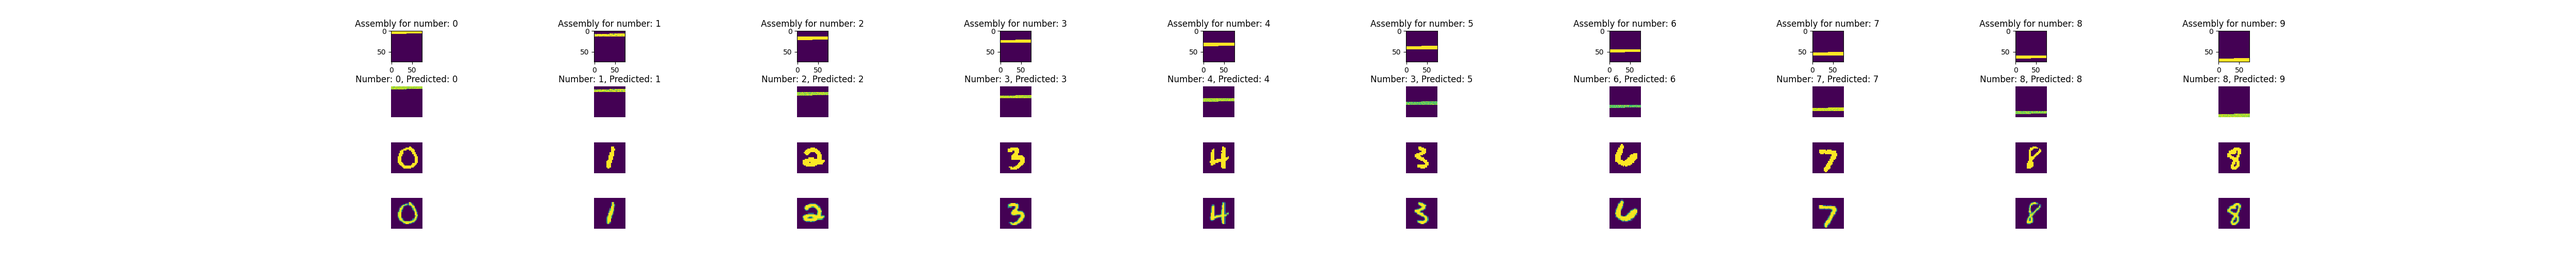
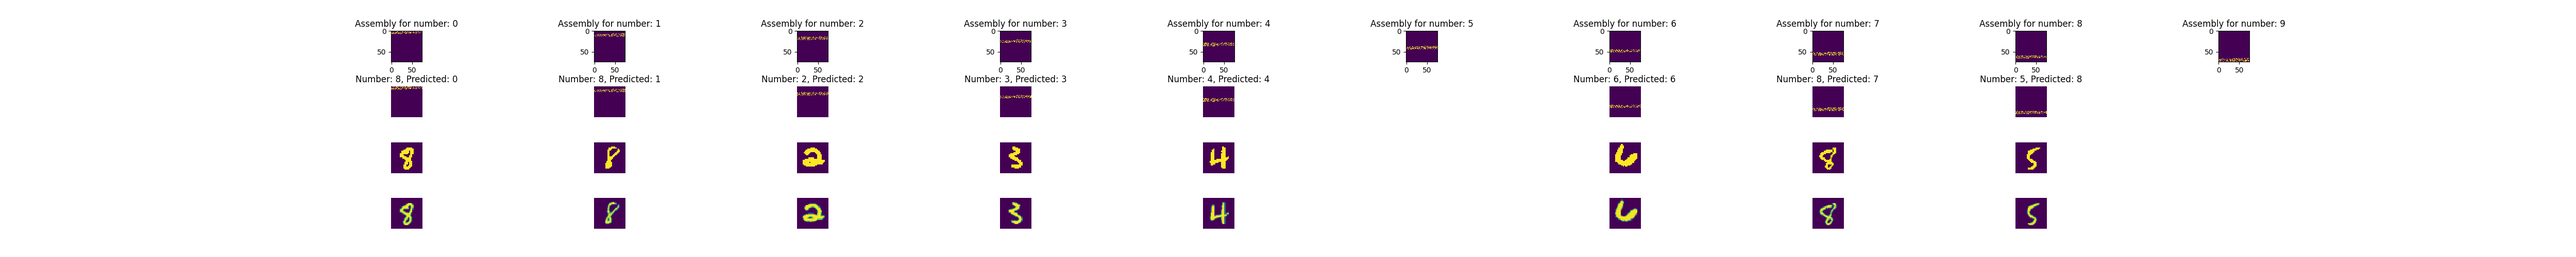
chor: small changes

diff --git a/online_learning.py b/online_learning.py
@@ -5,32 +5,32 @@ from matplotlib.colors import ListedColormap, BoundaryNorm
 
 
 def get_brain():
-    return Brain(p = 0.1, cap_size = 100, beta = 0.05, no_classes = 3, n = 2000, in_n = 1000)
+    return Brain(p = 0.1, cap_size = 100, beta = 0.1, no_classes = 2, n = 700, in_n = 1000)
 
 def binary_training():
     brain = get_brain()
-    props = [0.865, 0.9, 0.935]
-    choices = brain.binary_training(props, time_steps=500, delta=0.1)
+    props = [0.4, 0.6]
+    choices = brain.binary_training(props, time_steps=100)
 
-    fig, ax = plt.subplots(2, 1, figsize=(50, 6))
+    fig, ax = plt.subplots(1, 1, figsize=(20, 6))
     
     classes = [chr(ord("A") + i) for i in range(len(props))]
-    ax[0].set_yticks(range(len(classes)), labels=classes)
+    ax.set_yticks(range(len(classes)), labels=classes)
     fig.legend([str(props[i]) for i in range(len(props))])
-    ax[0].imshow(choices, cmap="binary", aspect="3")
-    ax[0].set_title(f"Game history \n props: {props}")
-    ax[0].set_xlabel("Time Steps")
-    ax[0].set_ylabel("Choices")
+    ax.imshow(choices, cmap="binary")
+    ax.set_title(f"Game history \n props: {props}")
+    ax.set_xlabel("Time Steps")
+    ax.set_ylabel("Choices")
 
-    # no delta
-    brain = get_brain()
-    choices_no_delta = brain.binary_training(props, time_steps=500)
-    fig.legend([str(props[i]) for i in range(len(props))])
-    ax[1].set_yticks(range(len(classes)), labels=classes)
-    ax[1].imshow(choices_no_delta, cmap="binary", aspect="3")
-    ax[1].set_title(f"Game history without delta \n props: {props}")
-    ax[1].set_xlabel("Time Steps")
-    ax[1].set_ylabel("Choices")
+    # # no delta
+    # brain = get_brain()
+    # choices_no_delta = brain.binary_training(props, time_steps=100)
+    # fig.legend([str(props[i]) for i in range(len(props))])
+    # ax[1].set_yticks(range(len(classes)), labels=classes)
+    # ax[1].imshow(choices_no_delta, cmap="binary")
+    # ax[1].set_title(f"Game history without delta \n props: {props}")
+    # ax[1].set_xlabel("Time Steps")
+    # ax[1].set_ylabel("Choices")
     
     fig.savefig("plots/online_training.png")
 
@@ -67,7 +67,6 @@ def binary_training_test():
         
     print("accuracy", correct / n)
 
-
 def two_brains_binary_game(rounds=700):
     brain1 = Brain(p = 0.1, cap_size = 100, beta = 0.1, no_classes = 2, n = 2000, in_n = 1000)
     brain2 = Brain(p = 0.1, cap_size = 100, beta = 0.1, no_classes = 2, n = 2000, in_n = 1000)
@@ -78,20 +77,8 @@ def two_brains_binary_game(rounds=700):
         in_class_activations1 = brain1.random_activations()
         in_class_activations2 = brain2.random_activations()
         
-        c = brain1.cap_size / brain1.input_size
-        activations_t_1_1 = None
-        activations_t_1_2 = None
-        
-        if False:
-            activations_t_1_1 = activations_t_1_1 = np.random.choice([0, 1], brain1.n, p = [1 - c, c])
-        else:
-            activations_t_1_1 = brain1._get_activations(in_class_activations1)
-            
-        if False:
-            activations_t_1_2 = activations_t_1_2 = np.random.choice([0, 1], brain2.n, p = [1 - c, c])
-        else:
-            activations_t_1_2 = brain2._get_activations(in_class_activations1)
-            
+        activations_t_1_1 = brain1._get_activations(in_class_activations1) 
+        activations_t_1_2 = brain2._get_activations(in_class_activations1)
         
         b1choice = brain1.get_choice(activations_t_1_1)
         b1choices[b1choice, i] = 1
@@ -133,6 +120,6 @@ def two_brains_binary_game(rounds=700):
 
 
 if __name__ == '__main__':
-    # binary_training()
+    binary_training()
     # binary_training_test()
-    two_brains_binary_game()
+    # two_brains_binary_game()

diff --git a/brain.py b/brain.py
@@ -92,7 +92,7 @@ class Brain():
         b[:int(neuron_pr_class * i)] = 0
         b[int(neuron_pr_class * (i+1)):] = 0
         
-        return b
+        return np.tanh(b)
     
     def section_training(self, test_input = None, no_rounds = None, activations_callback=None):
         bias = np.zeros(self.n)
@@ -104,7 +104,7 @@ class Brain():
             no_input = sum(no_rounds[:i])
             for j in range(no_rounds[i]):
                 in_class_activations = self._get_in_class_activations(test_input[no_input + j], activations_callback)
-                activations_t_1 = np.tanh(self.section_activations(in_class_activations, i, bias, neuron_pr_class))
+                activations_t_1 = self.section_activations(in_class_activations, i, bias, neuron_pr_class)
                 outer_prod = np.outer(in_class_activations, activations_t_1) * self.beta
                 self.weights = self.weights * (np.ones((len(in_class_activations), self.n)) + outer_prod)
 

diff --git a/plots.py b/plots.py
@@ -172,6 +172,7 @@ def overlap_plots(brain, no_data_items=1000):
     def overlap(g, h):
         v = np.sum([a == 1 and b == 1 for (a, b) in zip(brain.y[g], brain.y[h])])
         return v / brain.cap_size
+    
     overlap_plot_matrix = np.zeros((10, 10))
     for g in range(10):
         for h in range(10):
@@ -234,13 +235,17 @@ if __name__ == '__main__':
     #     no_iterations=15
     # )
     
-    # overlap_plots(
-    #     Brain(p=0.1, no_classes=10, cap_size=80, n=200, in_n=784, beta=0.1),
-    #     no_data_items=1000
-    # )
+    overlap_plots(
+        Brain(no_classes=10, cap_size=1000, n=10000, in_n=784*4, beta=1),
+        no_data_items=1000
+    )
 
     # assemblies_and_weights()
-    generate()
+    # generate()
     
     partial_time = time.time() - start
     print(f"Time taken: {partial_time}")
+    
+
+# Training accuracy:  0.8
+# Test accuracy:  0.56
